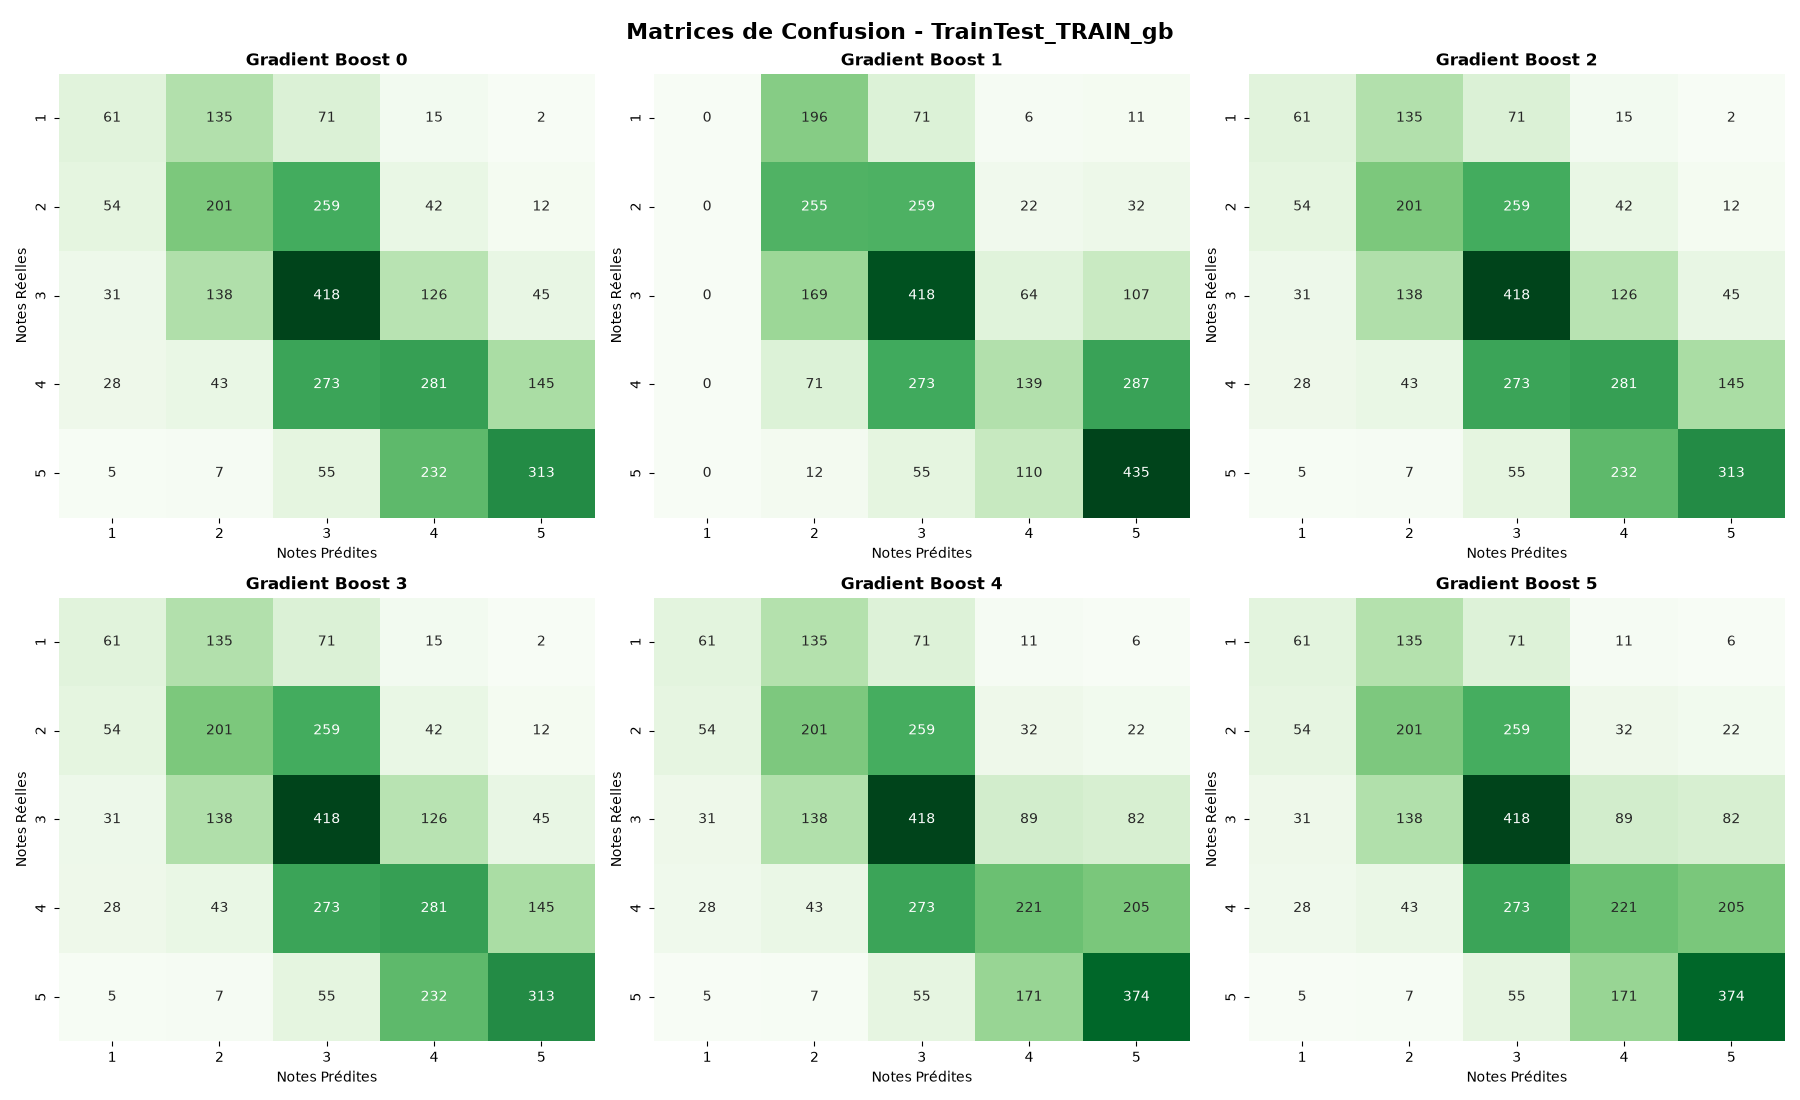
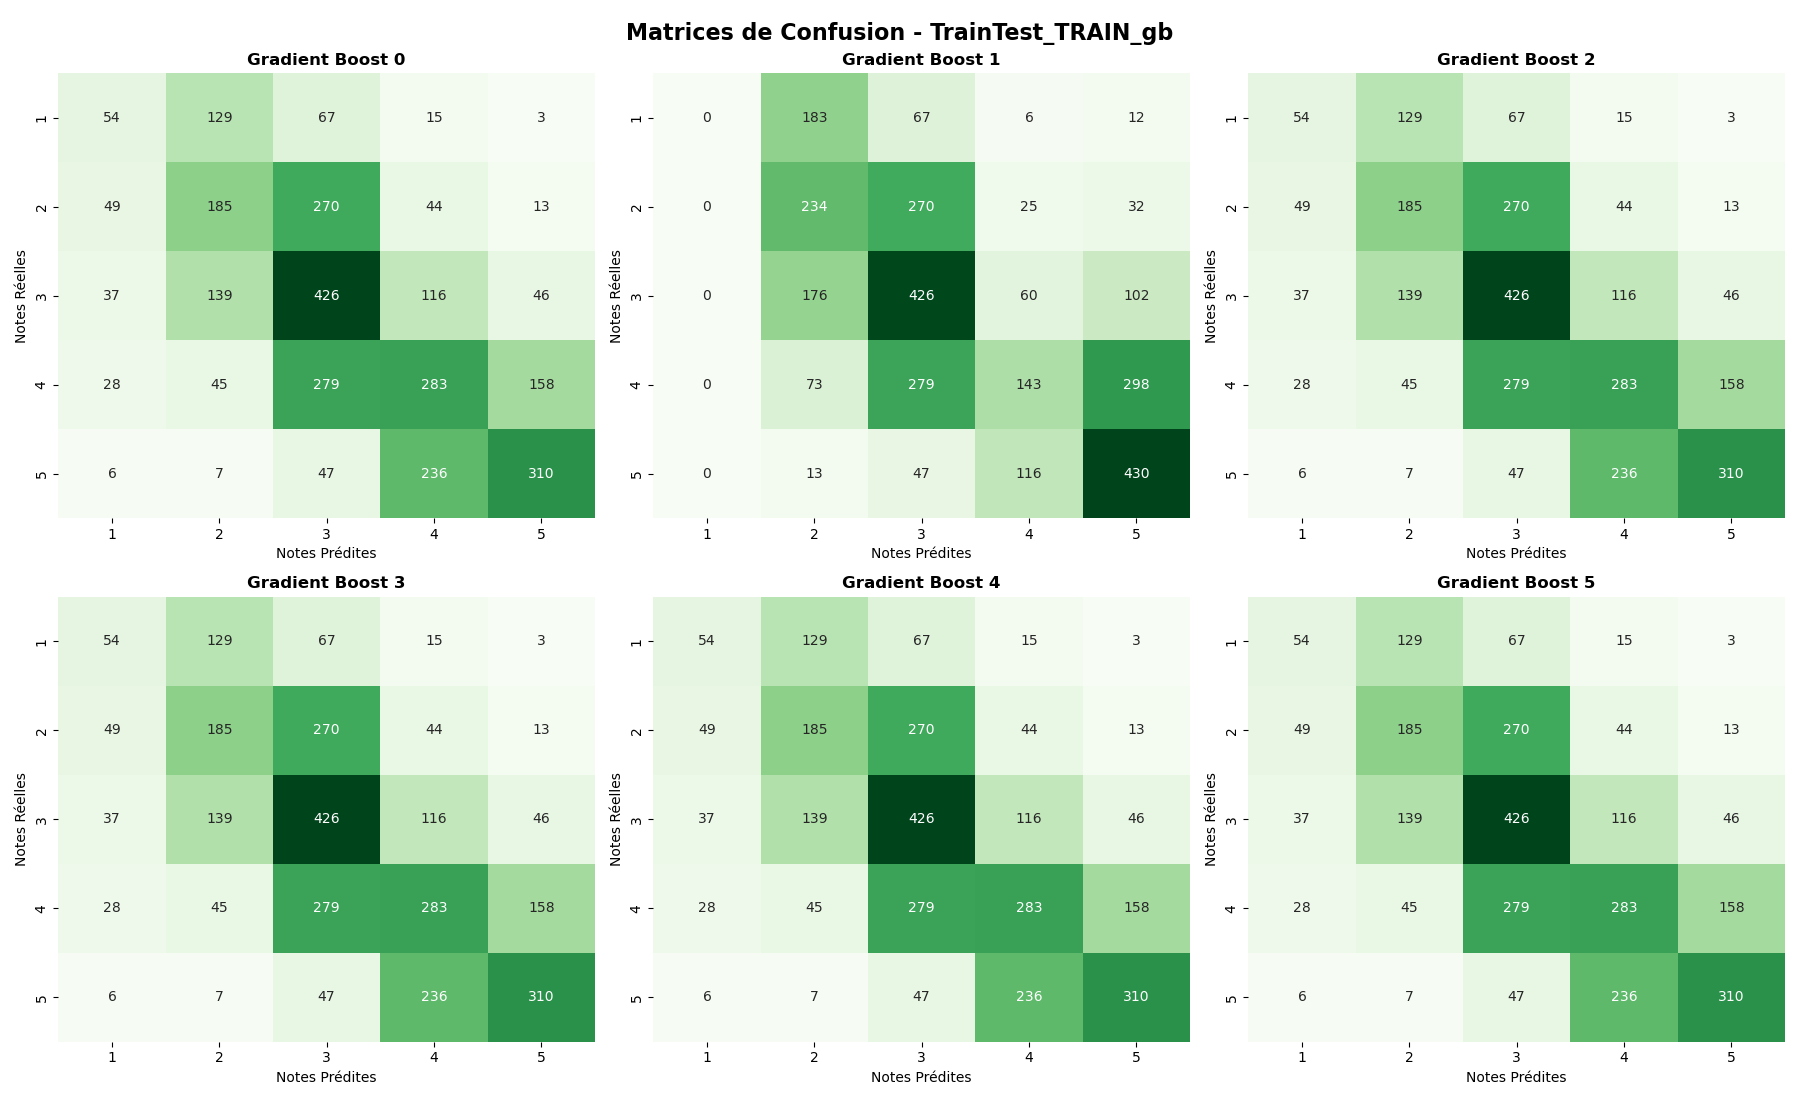
differents try of the pipeline

diff --git a/utils_benchmark.py b/utils_benchmark.py
@@ -5,13 +5,14 @@ import seaborn as sns
 import numpy as np
 
 from sklearn.model_selection import train_test_split, ShuffleSplit, LeaveOneOut, cross_val_predict, StratifiedKFold, StratifiedShuffleSplit, GridSearchCV
-from sklearn.metrics import accuracy_score, mean_absolute_error, precision_score, confusion_matrix, balanced_accuracy_score
+from sklearn.metrics import accuracy_score, mean_absolute_error, precision_score, confusion_matrix, balanced_accuracy_score, recall_score, f1_score, cohen_kappa_score
 from sklearn.tree import DecisionTreeClassifier
 from sklearn.ensemble import (
     GradientBoostingClassifier,
     HistGradientBoostingClassifier,
     RandomForestClassifier,
-    AdaBoostClassifier
+    AdaBoostClassifier,
+    ExtraTreesClassifier
 )
 
 from utils_MCLR import load_and_preprocess_data
@@ -45,7 +46,11 @@ def get_metrics(y_true, y_pred):
     metrics = {
         'Accuracy': accuracy_score(y_true, y_pred),
         'Balanced Accuracy': balanced_accuracy_score(y_true, y_pred),
-        'MAE': mean_absolute_error(y_true, y_pred)
+        'MAE': mean_absolute_error(y_true, y_pred),
+        'Precision': precision_score(y_true, y_pred, average='weighted', zero_division=0),
+        'Recall': recall_score(y_true, y_pred, average='weighted'),
+        'F1': f1_score(y_true, y_pred, average='weighted'),
+        'Cohen Kappa': cohen_kappa_score(y_true, y_pred)
     }
     precision = precision_score(y_true, y_pred, average=None, labels=[1, 2, 3, 4, 5], zero_division=0)
     for i, p in enumerate(precision, start=1):
@@ -192,7 +197,8 @@ def get_models():
                                                      subsample=0.8),
         "HistGradient Boost": HistGradientBoostingClassifier(random_state=42),
         "Random Forest": RandomForestClassifier(random_state=42),
-        "Ada Boost": AdaBoostClassifier(random_state=42)
+        "Ada Boost": AdaBoostClassifier(random_state=42),
+        "ExtraTrees": ExtraTreesClassifier(random_state=42)
     }
 
 def get_models_gb():
@@ -205,13 +211,10 @@ def get_models_gb():
         "Gradient Boost 5": GradientBoostingClassifier(random_state=42, max_depth=5)
     }
 
-def optimize_model_hp(X, y, base_model, param_grid):
+def optimize_model_hp(X, y, base_model, param_grid, scoring_metric="balanced_accuracy"):
     # 1. Définition du modèle de base
     cv = StratifiedKFold(n_splits=5, shuffle=True, random_state=42)
     # 2. Définition de la grille d'hyperparamètres à tester
-
-    # 3. Choix du score à optimiser
-    scoring_metric = 'balanced_accuracy'
 
     print("Lancement de la recherche des hyperparamètres optimaux (GridSearchCV)...")
 

diff --git a/script_benchmark.py b/script_benchmark.py
@@ -5,8 +5,8 @@ import os
 from sklearn.ensemble import GradientBoostingClassifier, HistGradientBoostingClassifier, RandomForestClassifier
 from sklearn.model_selection import GridSearchCV, train_test_split, StratifiedKFold
 
-random_state=42
-n_splits=5
+random_state=74
+n_splits=100
 output_dir = "outputs/model_results/benchmark"
 base_csv = "data/survey/data-base.csv"
 personnes_csv = "data/survey/data-personnes.csv"
@@ -39,14 +39,14 @@ def main():
     plot_confusion_matrices(y_test_ss, preds_test_ss, title_suffix=f"ShuffleSplit_TEST{name}", save=True)
     print("\n")
 
-    # 3. LEAVEONE OUT (LOO)
-    print("--- Benchmark : Leave-One-Out (LOO) ---")
-    df_loo, preds_train_loo, y_train_loo, preds_test_loo, y_loo = run_loo(models, X, y)
-    print(df_loo.to_string())
-    df_loo.to_csv(os.path.join(output_dir, f"results_loo{name}.csv"))
-
-    plot_confusion_matrices(y_train_loo, preds_train_loo, title_suffix=f"LOO_TRAIN{name}", save=True)
-    plot_confusion_matrices(y_loo, preds_test_loo, title_suffix=f"LOO_TEST{name}", save=True)
+    # # 3. LEAVEONE OUT (LOO)
+    # print("--- Benchmark : Leave-One-Out (LOO) ---")
+    # df_loo, preds_train_loo, y_train_loo, preds_test_loo, y_loo = run_loo(models, X, y)
+    # print(df_loo.to_string())
+    # df_loo.to_csv(os.path.join(output_dir, f"results_loo{name}.csv"))
+    #
+    # plot_confusion_matrices(y_train_loo, preds_train_loo, title_suffix=f"LOO_TRAIN{name}", save=True)
+    # plot_confusion_matrices(y_loo, preds_test_loo, title_suffix=f"LOO_TEST{name}", save=True)
 
 
 
@@ -94,7 +94,7 @@ def main_2():
     model = RandomForestClassifier(random_state=42)
     model_name = "RandomForestClassifier"
     # Lance l'optimisation
-    best_model, best_parameter = optimize_model_hp(X, y, model, param_grid)
+    best_model, best_parameter = optimize_model_hp(X, y, model, param_grid, scoring_metric="precision_weighted")
     df_best_parameters = pd.DataFrame([best_parameter])
     print(df_best_parameters.to_string())
     df_best_parameters.to_csv(os.path.join(output_dir, f"results_GS_best_parameter_{model_name}.csv"))
@@ -120,4 +120,4 @@ def main_2():
     print(df_results.to_string())
 
 if __name__ == "__main__":
-    main_2()
+    main()
